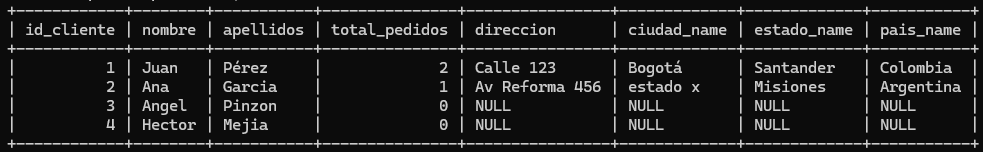
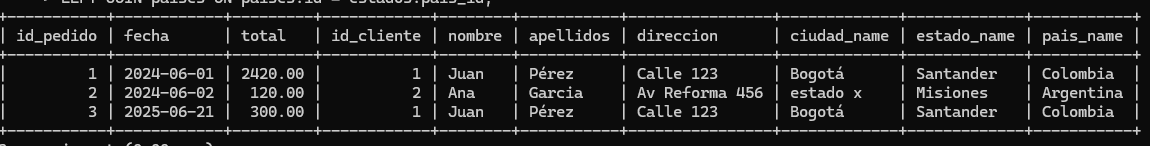
feat: :sparkles: 9

diff --git a/README.md b/README.md
@@ -152,29 +152,23 @@ WHERE pedidos_detalle.producto_id IS NULL;
 
 ### 9 
 ```sql
-SELECT
+SELECT 
+  pedidos.id AS id_pedido,
+  pedidos.fecha,
+  pedidos.total,
   clientes.id AS id_cliente,
   clientes.nombre,
   clientes.apellidos,
-  COUNT(pedidos.id) AS total_pedidos,
   clientes_ubicacion.direccion,
   ciudades.ciudad_name,
   estados.estado_name,
   paises.pais_name
-FROM clientes
-LEFT JOIN pedidos ON pedidos.cliente_id = clientes.id
+FROM pedidos
+INNER JOIN clientes ON pedidos.cliente_id = clientes.id
 LEFT JOIN clientes_ubicacion ON clientes_ubicacion.cliente_id = clientes.id
 LEFT JOIN ciudades ON ciudades.id = clientes_ubicacion.ciudad_id
 LEFT JOIN estados ON estados.id = ciudades.estado_id
-LEFT JOIN paises ON paises.id = estados.pais_id
-GROUP BY 
-  clientes.id,
-  clientes.nombre,
-  clientes.apellidos,
-  clientes_ubicacion.direccion,
-  ciudades.ciudad_name,
-  estados.estado_name,
-  paises.pais_name;
+LEFT JOIN paises ON paises.id = estados.pais_id;
 ```
 ![alt text](image-9.png)
 
